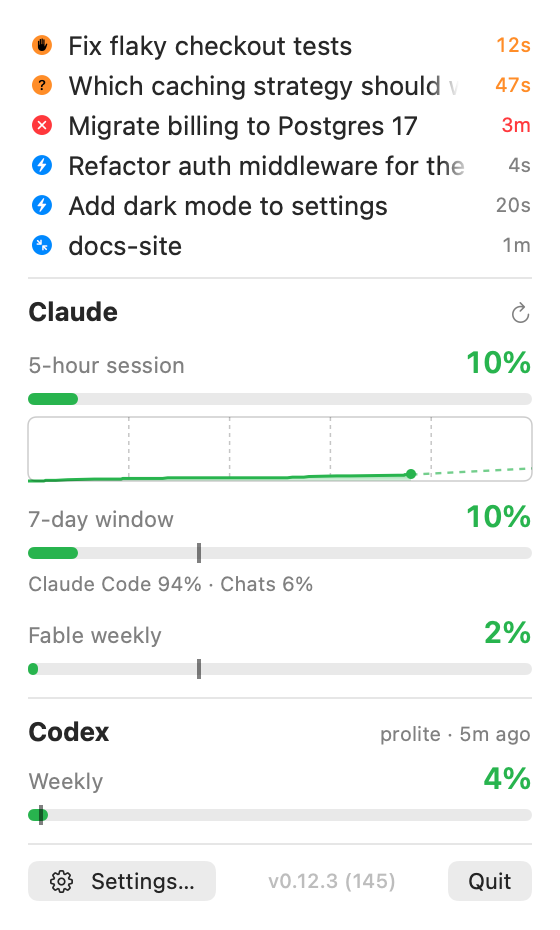
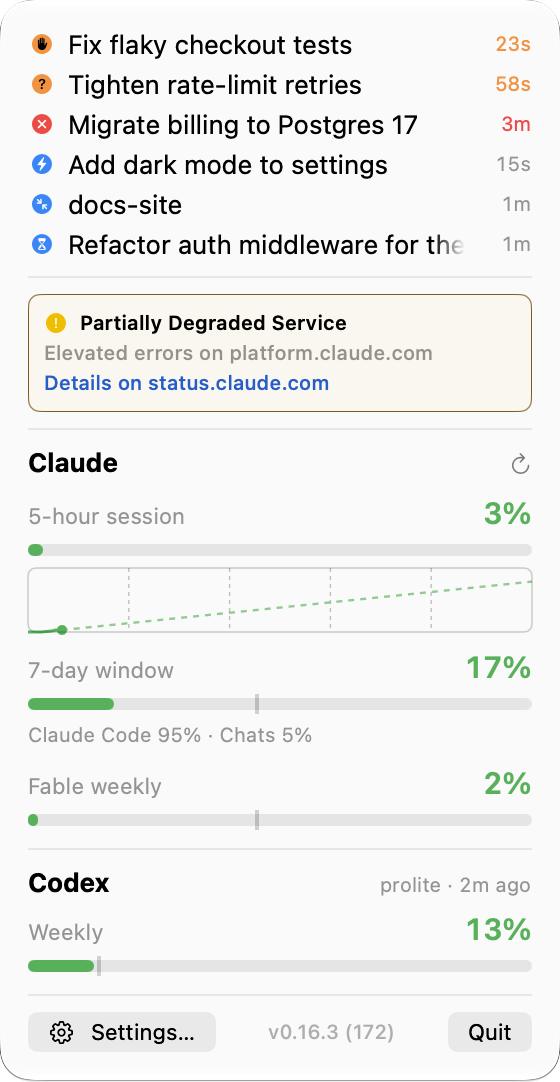
docs: dropdown screenshots from v0.16.3
Made-up sessions in every state, including the new In background row,
over real usage; captured from the installed app run against a throwaway
home so no real session titles appear.

diff --git a/README.md b/README.md
@@ -76,8 +76,8 @@ work between the two quotas. See [Codex usage](#codex-usage).
 ### Dropdown
 
 <picture>
-  <source media="(prefers-color-scheme: dark)" srcset="docs/screenshots/dropdown-dark.png?v=0.14.2">
-  <img alt="dropdown panel" src="docs/screenshots/dropdown-light.png?v=0.14.2" width="280">
+  <source media="(prefers-color-scheme: dark)" srcset="docs/screenshots/dropdown-dark.png?v=0.16.3">
+  <img alt="dropdown panel" src="docs/screenshots/dropdown-light.png?v=0.16.3" width="280">
 </picture>
 
 - A **Claude** header with the ↻ refresh button (⌘R) right-aligned;
